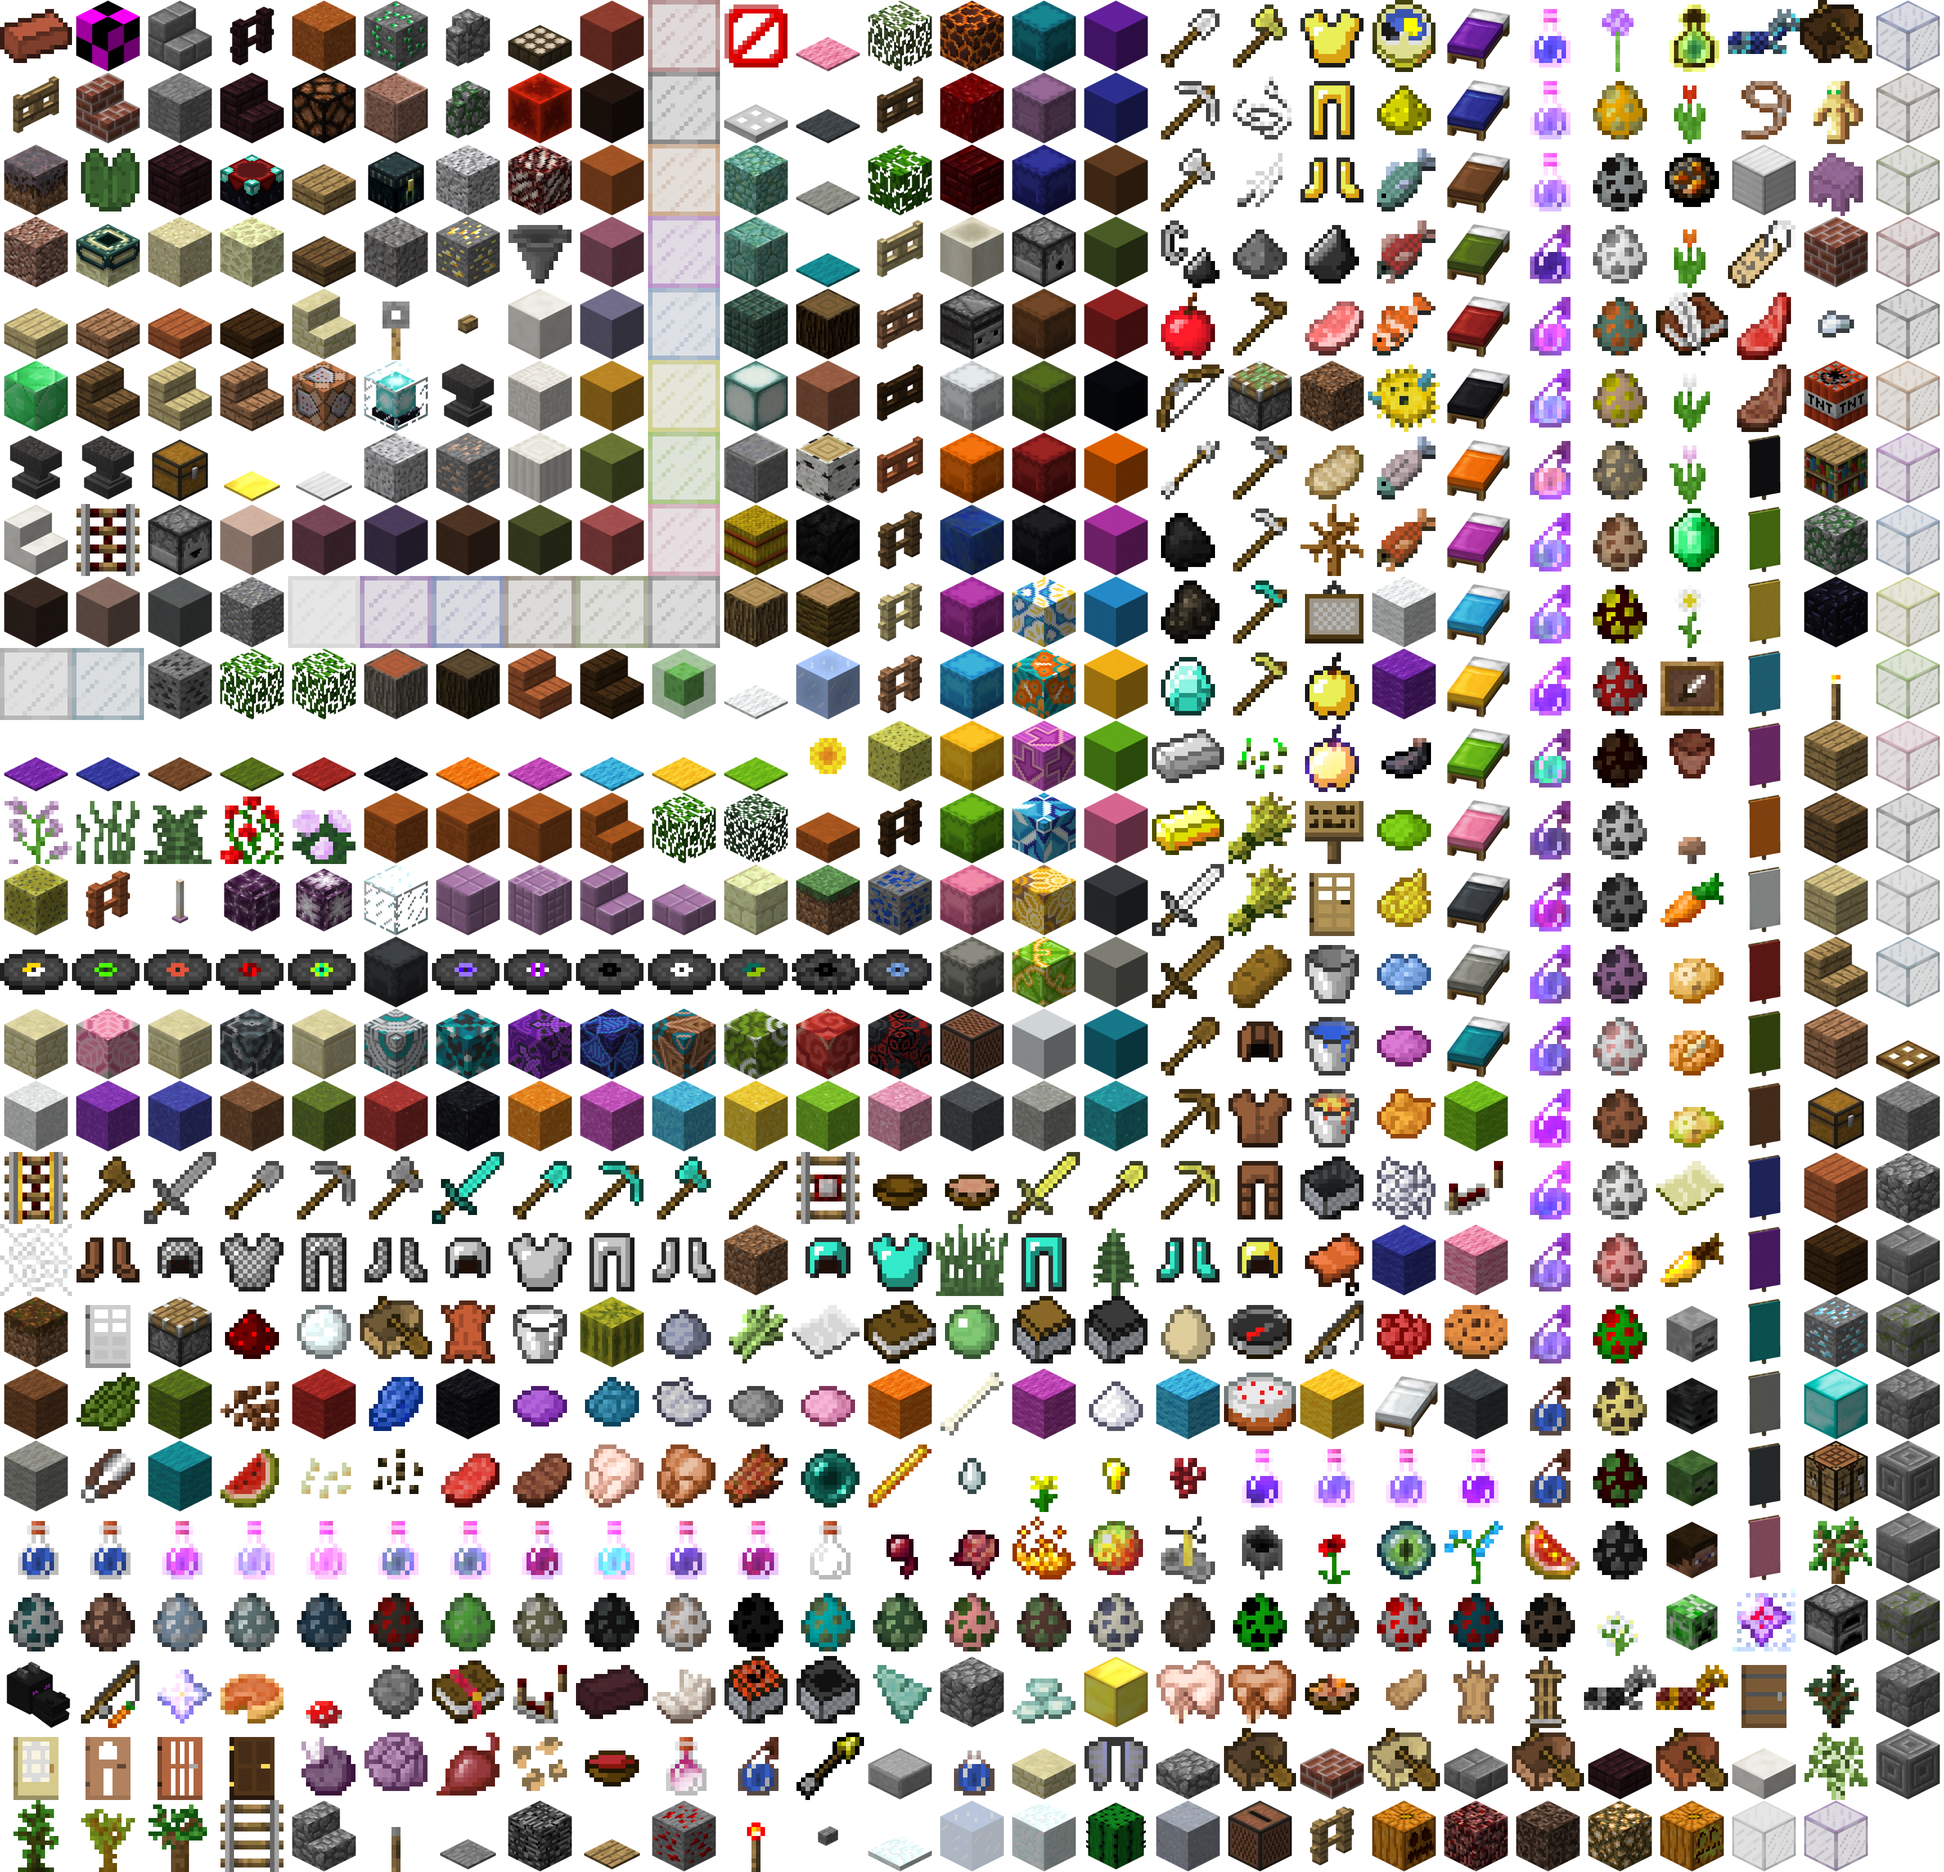
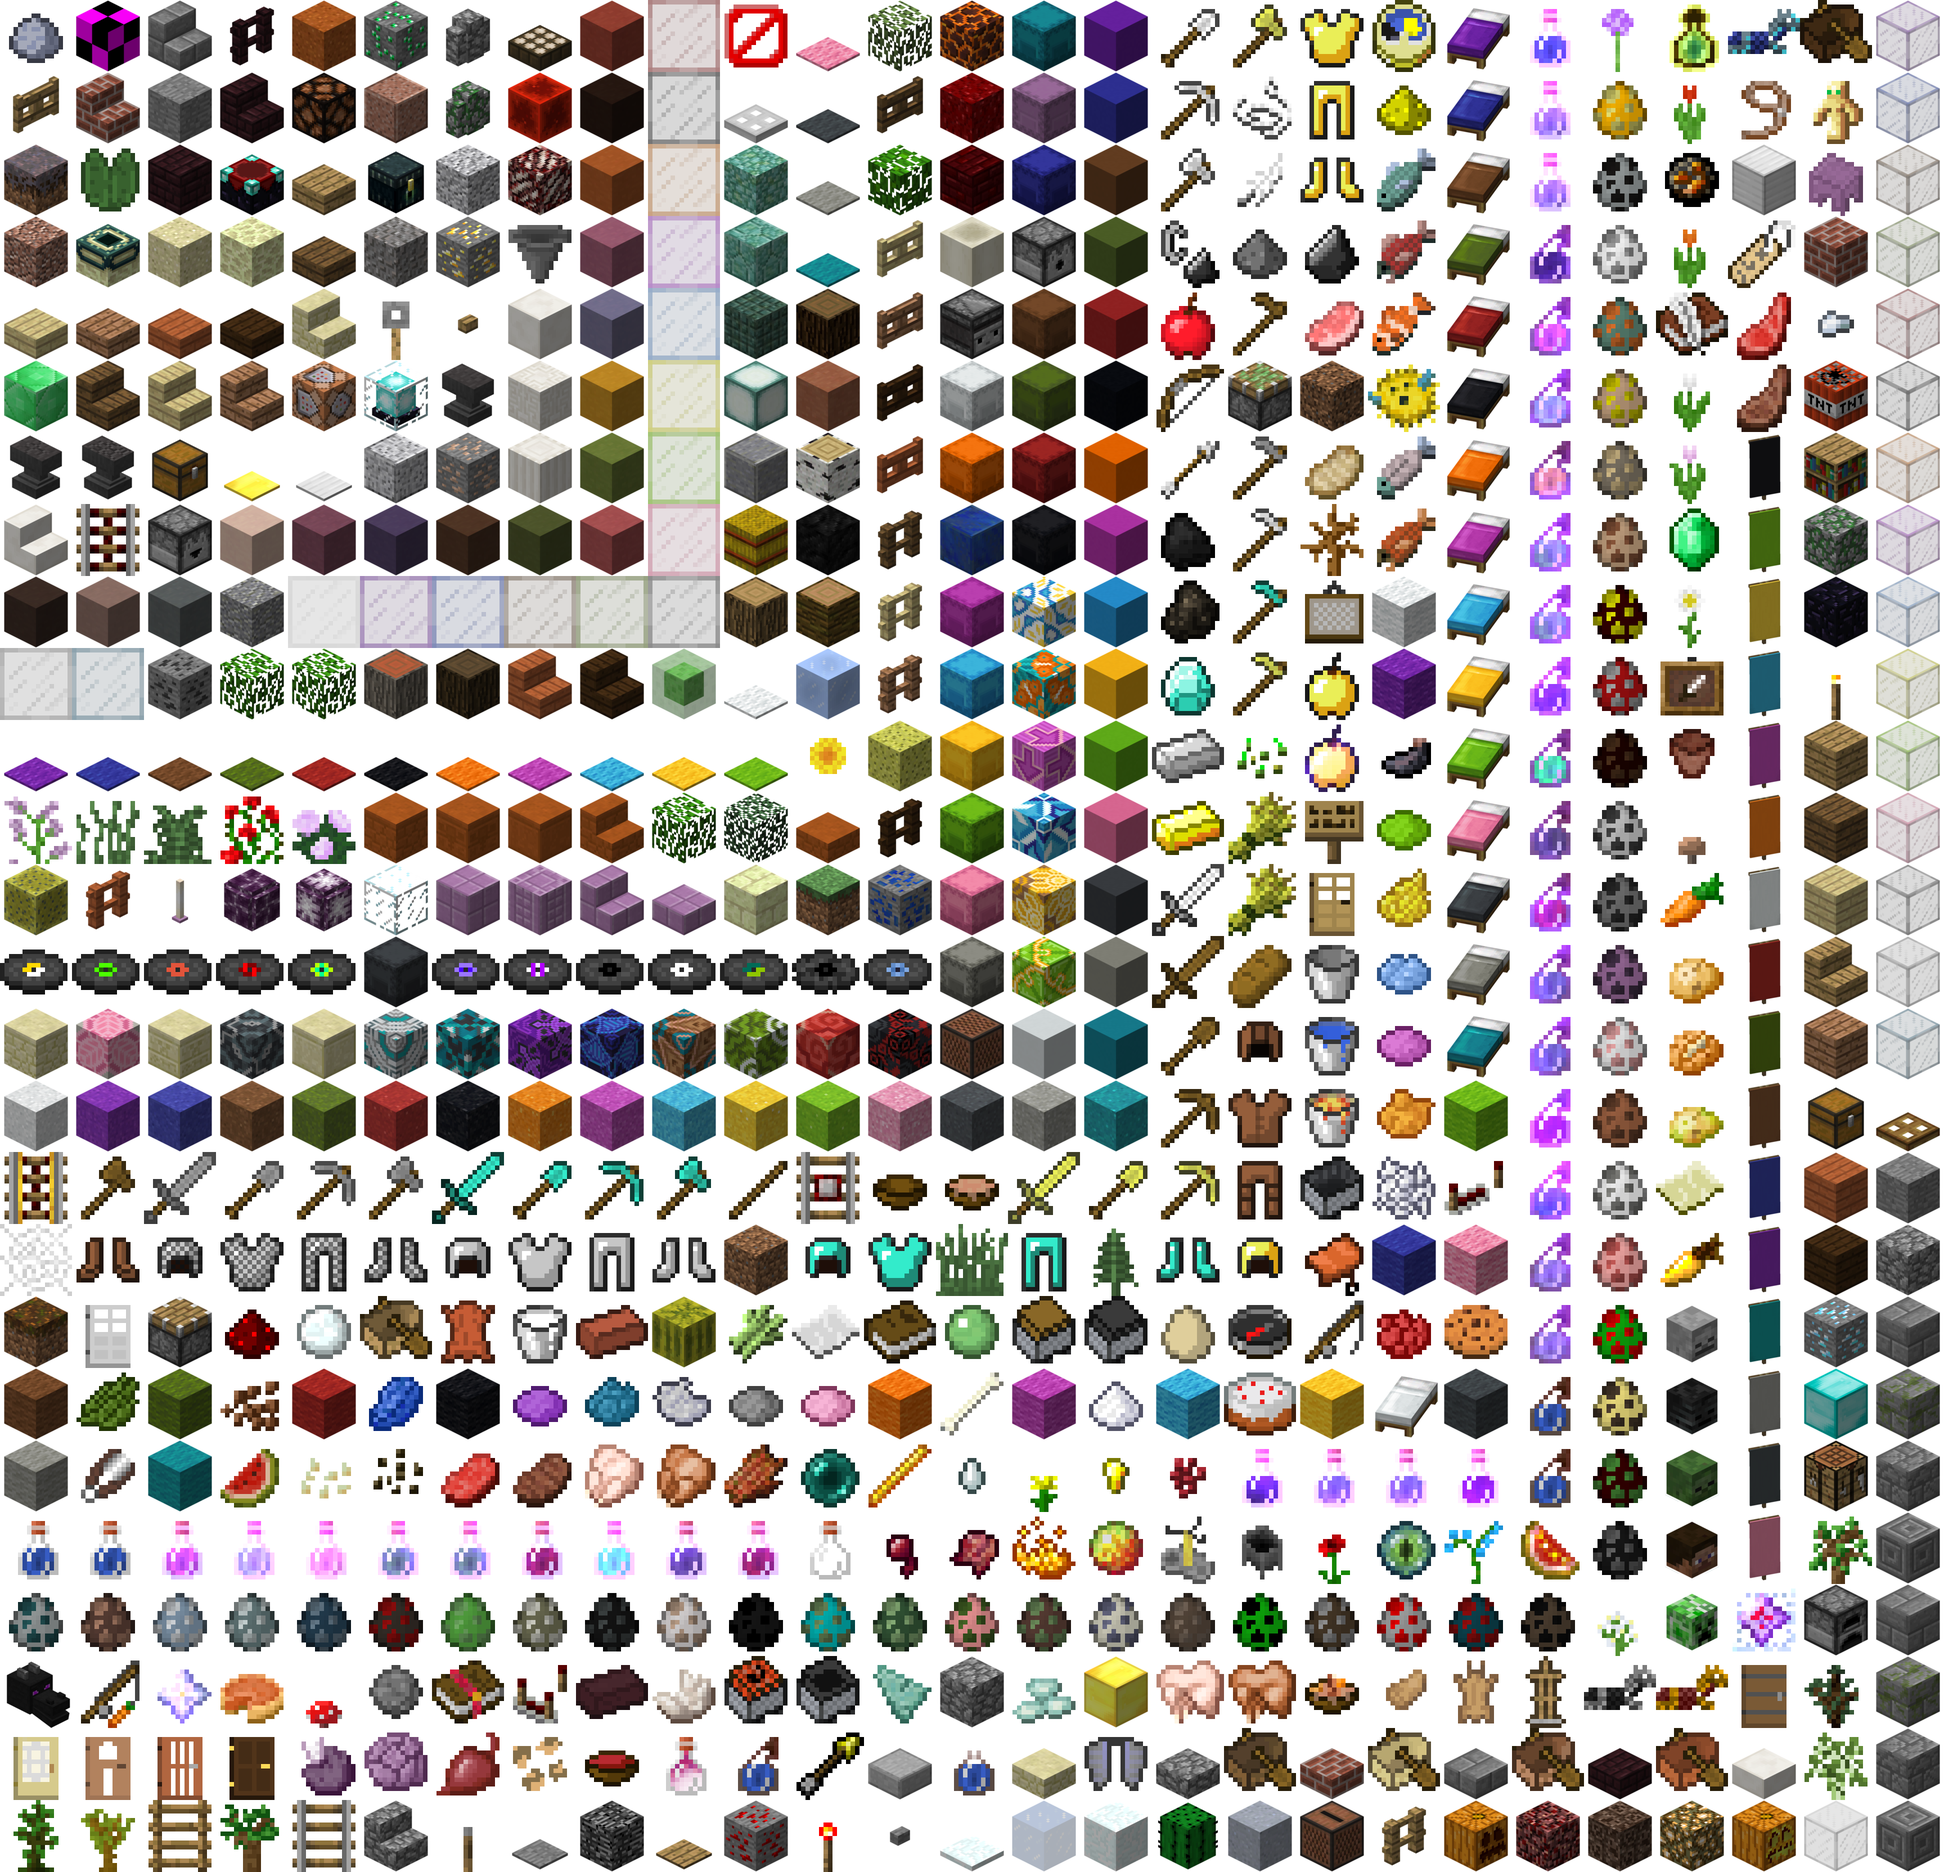
Fix ladder texture missing

diff --git a/public/resources/css/inventory.css b/public/resources/css/inventory.css
@@ -1,13 +1,13 @@
 
 .item-icon {
-  background-image: url('/resources/img/inventory/items.webp?v5');
+  background-image: url('/resources/img/inventory/items.webp?v6');
   width: 128px;
   height: 128px;
   background-position: -128px -0px;
 }
 
 html.no-webp .item-icon {
-  background-image: url('/resources/img/inventory/items.png?v5');
+  background-image: url('/resources/img/inventory/items.png?v6');
 }
 
 .icon-0 {
@@ -16,7 +16,7 @@ html.no-webp .item-icon {
   height: 128px;
 }
 .icon-103_0 {
-  background-position: -1024px -2304px;
+  background-position: -1152px -2304px;
   width: 128px;
   height: 128px;
 }
@@ -1761,12 +1761,12 @@ html.no-webp .item-icon {
   height: 128px;
 }
 .icon-336_0 {
-  background-position: -0px -0px;
+  background-position: -1024px -2304px;
   width: 128px;
   height: 128px;
 }
 .icon-337_0 {
-  background-position: -1152px -2304px;
+  background-position: -0px -0px;
   width: 128px;
   height: 128px;
 }
@@ -3270,248 +3270,253 @@ html.no-webp .item-icon {
   width: 128px;
   height: 128px;
 }
-.icon-6_5 {
+.icon-65_0 {
   background-position: -256px -3200px;
   width: 128px;
   height: 128px;
 }
-.icon-66_0 {
+.icon-6_5 {
   background-position: -384px -3200px;
   width: 128px;
   height: 128px;
 }
-.icon-67_0 {
+.icon-66_0 {
   background-position: -512px -3200px;
   width: 128px;
   height: 128px;
 }
-.icon-69_0 {
+.icon-67_0 {
   background-position: -640px -3200px;
   width: 128px;
   height: 128px;
 }
-.icon-70_0 {
+.icon-69_0 {
   background-position: -768px -3200px;
   width: 128px;
   height: 128px;
 }
-.icon-7_0 {
+.icon-70_0 {
   background-position: -896px -3200px;
   width: 128px;
   height: 128px;
 }
-.icon-72_0 {
+.icon-7_0 {
   background-position: -1024px -3200px;
   width: 128px;
   height: 128px;
 }
-.icon-73_0 {
+.icon-72_0 {
   background-position: -1152px -3200px;
   width: 128px;
   height: 128px;
 }
-.icon-76_0 {
+.icon-73_0 {
   background-position: -1280px -3200px;
   width: 128px;
   height: 128px;
 }
-.icon-77_0 {
+.icon-76_0 {
   background-position: -1408px -3200px;
   width: 128px;
   height: 128px;
 }
-.icon-78_0 {
+.icon-77_0 {
   background-position: -1536px -3200px;
   width: 128px;
   height: 128px;
 }
-.icon-79_0 {
+.icon-78_0 {
   background-position: -1664px -3200px;
   width: 128px;
   height: 128px;
 }
-.icon-80_0 {
+.icon-79_0 {
   background-position: -1792px -3200px;
   width: 128px;
   height: 128px;
 }
-.icon-81_0 {
+.icon-80_0 {
   background-position: -1920px -3200px;
   width: 128px;
   height: 128px;
 }
-.icon-82_0 {
+.icon-81_0 {
   background-position: -2048px -3200px;
   width: 128px;
   height: 128px;
 }
-.icon-84_0 {
+.icon-82_0 {
   background-position: -2176px -3200px;
   width: 128px;
   height: 128px;
 }
-.icon-85_0 {
+.icon-84_0 {
   background-position: -2304px -3200px;
   width: 128px;
   height: 128px;
 }
-.icon-86_0 {
+.icon-85_0 {
   background-position: -2432px -3200px;
   width: 128px;
   height: 128px;
 }
-.icon-87_0 {
+.icon-86_0 {
   background-position: -2560px -3200px;
   width: 128px;
   height: 128px;
 }
-.icon-88_0 {
+.icon-87_0 {
   background-position: -2688px -3200px;
   width: 128px;
   height: 128px;
 }
-.icon-89_0 {
+.icon-88_0 {
   background-position: -2816px -3200px;
   width: 128px;
   height: 128px;
 }
-.icon-91_0 {
+.icon-89_0 {
   background-position: -2944px -3200px;
   width: 128px;
   height: 128px;
 }
-.icon-95_0 {
+.icon-91_0 {
   background-position: -3072px -3200px;
   width: 128px;
   height: 128px;
 }
-.icon-95_10 {
+.icon-95_0 {
   background-position: -3200px -3200px;
   width: 128px;
   height: 128px;
 }
-.icon-95_11 {
+.icon-95_10 {
   background-position: -3328px -0px;
   width: 128px;
   height: 128px;
 }
-.icon-95_12 {
+.icon-95_11 {
   background-position: -3328px -128px;
   width: 128px;
   height: 128px;
 }
-.icon-95_13 {
+.icon-95_12 {
   background-position: -3328px -256px;
   width: 128px;
   height: 128px;
 }
-.icon-95_14 {
+.icon-95_13 {
   background-position: -3328px -384px;
   width: 128px;
   height: 128px;
 }
-.icon-95_15 {
+.icon-95_14 {
   background-position: -3328px -512px;
   width: 128px;
   height: 128px;
 }
-.icon-95_1 {
+.icon-95_15 {
   background-position: -3328px -640px;
   width: 128px;
   height: 128px;
 }
-.icon-95_2 {
+.icon-95_1 {
   background-position: -3328px -768px;
   width: 128px;
   height: 128px;
 }
-.icon-95_3 {
+.icon-95_2 {
   background-position: -3328px -896px;
   width: 128px;
   height: 128px;
 }
-.icon-95_4 {
+.icon-95_3 {
   background-position: -3328px -1024px;
   width: 128px;
   height: 128px;
 }
-.icon-95_5 {
+.icon-95_4 {
   background-position: -3328px -1152px;
   width: 128px;
   height: 128px;
 }
-.icon-95_6 {
+.icon-95_5 {
   background-position: -3328px -1280px;
   width: 128px;
   height: 128px;
 }
-.icon-95_7 {
+.icon-95_6 {
   background-position: -3328px -1408px;
   width: 128px;
   height: 128px;
 }
-.icon-95_8 {
+.icon-95_7 {
   background-position: -3328px -1536px;
   width: 128px;
   height: 128px;
 }
-.icon-95_9 {
+.icon-95_8 {
   background-position: -3328px -1664px;
   width: 128px;
   height: 128px;
 }
-.icon-96_0 {
+.icon-95_9 {
   background-position: -3328px -1792px;
   width: 128px;
   height: 128px;
 }
-.icon-97_0 {
+.icon-96_0 {
   background-position: -3328px -1920px;
   width: 128px;
   height: 128px;
 }
-.icon-97_1 {
+.icon-97_0 {
   background-position: -3328px -2048px;
   width: 128px;
   height: 128px;
 }
-.icon-97_2 {
+.icon-97_1 {
   background-position: -3328px -2176px;
   width: 128px;
   height: 128px;
 }
-.icon-97_3 {
+.icon-97_2 {
   background-position: -3328px -2304px;
   width: 128px;
   height: 128px;
 }
-.icon-97_4 {
+.icon-97_3 {
   background-position: -3328px -2432px;
   width: 128px;
   height: 128px;
 }
-.icon-97_5 {
+.icon-97_4 {
   background-position: -3328px -2560px;
   width: 128px;
   height: 128px;
 }
-.icon-98_0 {
+.icon-97_5 {
   background-position: -3328px -2688px;
   width: 128px;
   height: 128px;
 }
-.icon-98_1 {
+.icon-98_0 {
   background-position: -3328px -2816px;
   width: 128px;
   height: 128px;
 }
-.icon-98_2 {
+.icon-98_1 {
   background-position: -3328px -2944px;
   width: 128px;
   height: 128px;
 }
-.icon-98_3 {
+.icon-98_2 {
   background-position: -3328px -3072px;
+  width: 128px;
+  height: 128px;
+}
+.icon-98_3 {
+  background-position: -3328px -3200px;
   width: 128px;
   height: 128px;
 }
